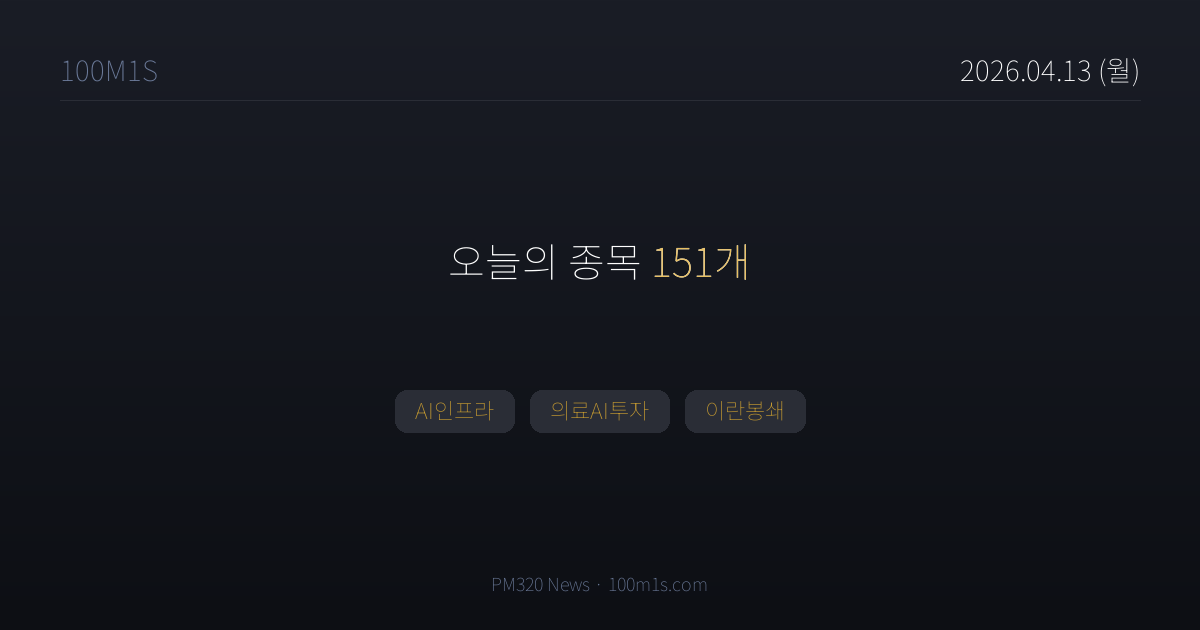
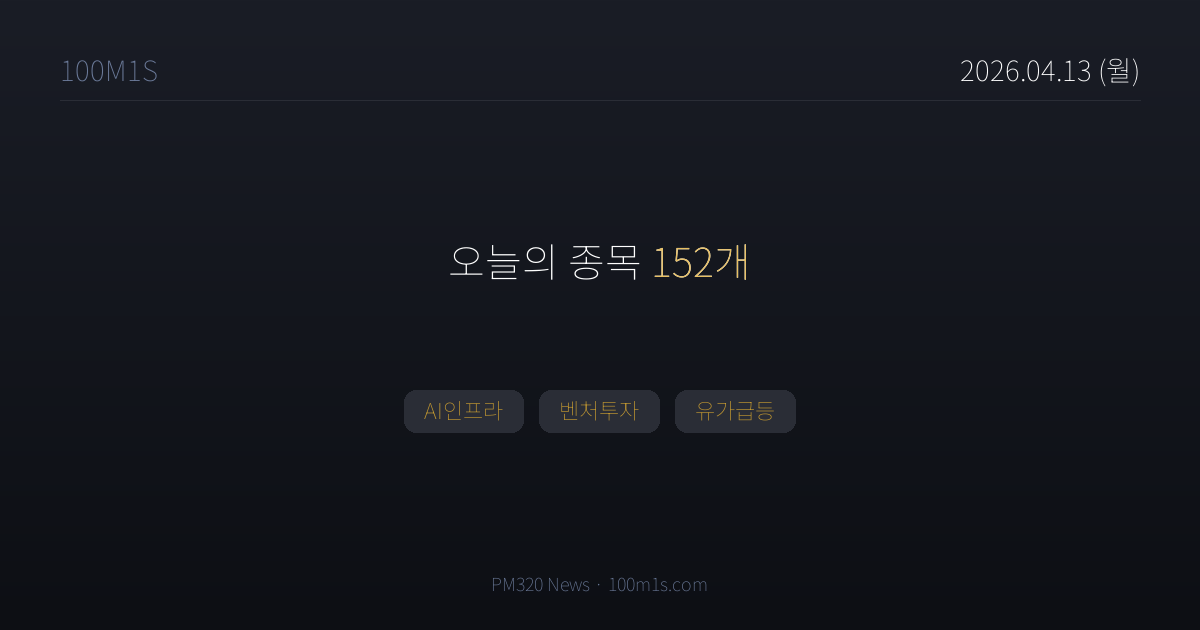
chore(news): 2026-04-13T13:26 pipeline

Changed region(s): [[0.3083, 0.6032, 0.6783, 0.6937], [0.5858, 0.3921, 0.6167, 0.4222]]

diff --git a/news/2026-04-13.html b/news/2026-04-13.html
@@ -3,8 +3,8 @@
 <head>
 <meta charset="UTF-8">
 <title>4월 13일 (월) 뉴스 — 100M1S</title>
-<meta property="og:title" content="4월 13일 (월) · 종목 151개">
-<meta property="og:description" content="AI인프라, 의료AI투자, 이란봉쇄">
+<meta property="og:title" content="4월 13일 (월) · 종목 152개">
+<meta property="og:description" content="AI인프라, 벤처투자, 유가급등">
 <meta property="og:image" content="https://100m1s.com/og/2026-04-13.png">
 <meta property="og:image:width" content="1200">
 <meta property="og:image:height" content="630">
